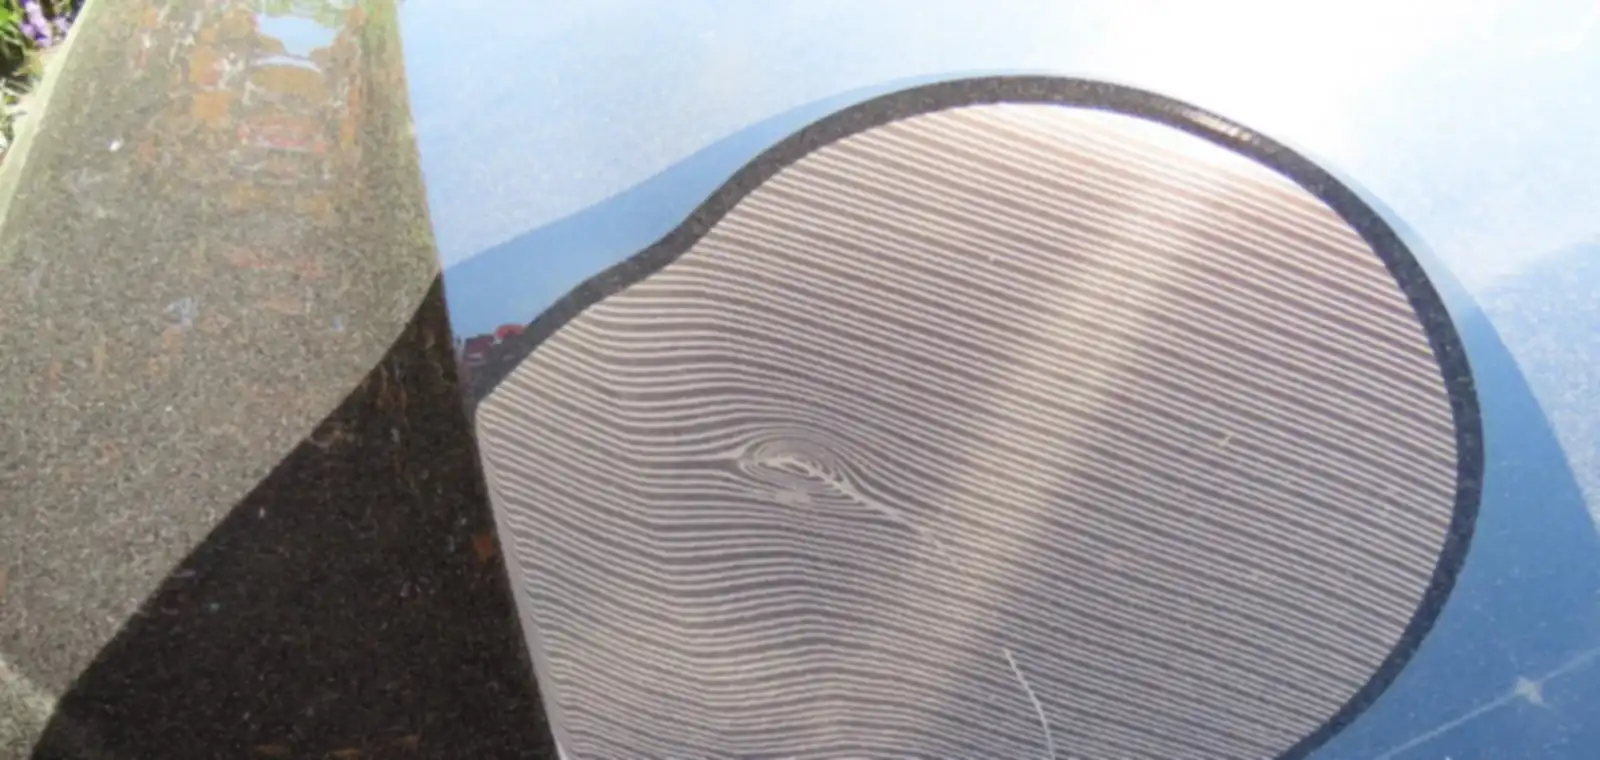
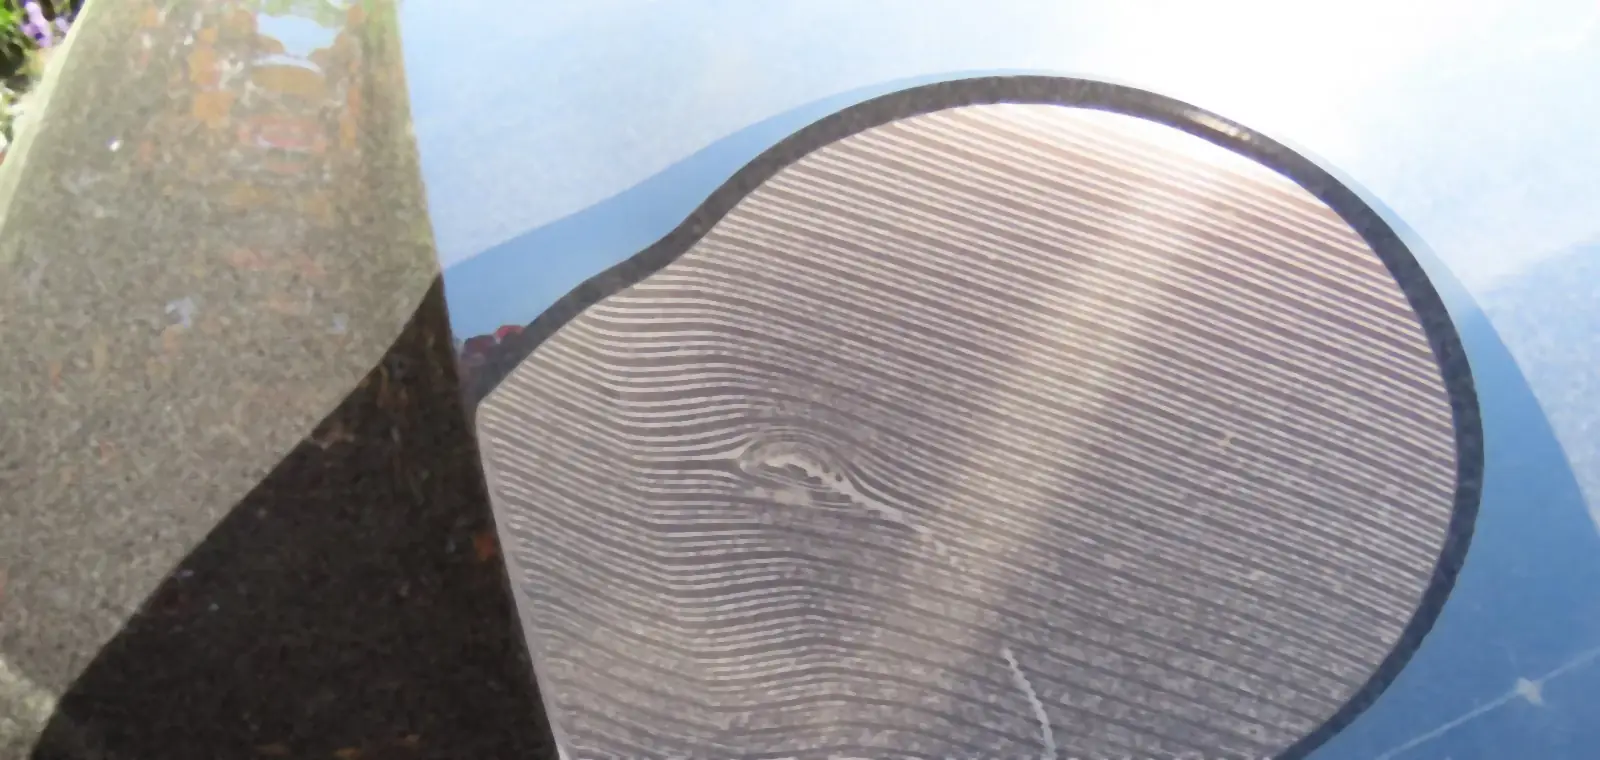
Hintergrundbild im Anriss entrauscht statt weichgezeichnet
Bilal: sieht low quality aus, das Bild an sich ist gut. Zwei Ursachen,
beide behoben.

ENTRAUSCHEN STATT WEICHZEICHNEN. Das Bild war mit einem Gauß von 1,4
weichgezeichnet, damit es klein wird – genau das machte die Streifen zu
Matsch. Teuer an dem Foto ist nicht die Struktur, sondern Lackflitter
und Sensorrauschen: hochfrequent, unkomprimierbar und unter dem blauen
Schleier ohnehin unsichtbar. Ein Medianfilter nimmt die weg und lässt
die Kanten stehen. Ohne Filter 226 KB scharf, mit Gauß 43 KB matschig,
mit Median 7+3 nun 51 KB scharf.

ZWEI AUSSCHNITTE STATT ZWEI GRÖSSEN. Der Anriss ist am Handy hoch und
schmal, das Bild ein breiter Streifen – mit cover wurde es dort 6,7-fach
hochskaliert. Das war der eigentliche Grund für den Eindruck, nicht die
Kompression. Jetzt gibt es einen eigenen, fast quadratischen Ausschnitt
(800x780, 41 KB), der oben im Anriss liegt und nach unten in den
Grundton ausläuft. Nachgemessen: 390@3x von 6,68x auf 1,46x, 430@3x von
6,49x auf 1,61x; am Schreibtisch unverändert 2,19x bei 1440@2x, jetzt
aber mit scharfer Vorlage.

Der Auslauf endet auf demselben --blue-dark, das darunter liegt, deshalb
ist keine Kante zu sehen. Seine Höhe (97,5 vw) ist genau die Höhe des
Ausschnitts bei voller Breite; wer den Ausschnitt ändert, muss sie
mitziehen.

Dazu die Doppelung im Anriss-Panel: "Ingenieur · Kfz-Sachverständiger"
stand direkt über "Kfz-Sachverständiger in Heppenheim". Die Zeile nennt
jetzt die Qualifikation statt der Rolle.
[…]

diff --git a/index.html b/index.html
@@ -217,7 +217,18 @@
         radial-gradient(95% 65% at 50% 118%, rgba(0,12,40,0.5), rgba(0,12,40,0) 68%),
         radial-gradient(70% 90% at -10% 50%, rgba(0,12,40,0.32), rgba(0,12,40,0) 60%),
         linear-gradient(135deg, rgba(0,42,115,0.84) 0%, rgba(0,61,165,0.78) 55%, rgba(0,74,199,0.80) 100%),
-        url("fotos/anriss-hintergrund-klein.webp") center / cover no-repeat,
+        /* Am Handy laeuft das Foto nach unten in den Grundton aus. Es liegt
+           oben und ist 97,5 vw hoch – das ist genau die Hoehe, die der
+           Ausschnitt (800x780) bei voller Breite einnimmt. Der Verlauf
+           endet auf demselben --blue-dark, das darunter liegt, deshalb
+           sieht man keine Kante. */
+        linear-gradient(to bottom, rgba(0,42,115,0) 46%, var(--blue-dark) 100%)
+          top center / 100% 97.5vw no-repeat,
+        /* Eigener, fast quadratischer Ausschnitt fuers Handy. Der breite
+           Streifen wurde hier mit "cover" 6,7-fach hochskaliert – das war
+           der Grund, warum das Bild am Handy billig aussah. So sind es
+           1,5-fach. */
+        url("fotos/anriss-hintergrund-handy.webp") top center / 100% auto no-repeat,
         var(--blue-dark);
       /* Genau eine Bildschirmhoehe, abzueglich der 68 px Navigationsleiste,
          die #hero als margin-top traegt: Anriss und Sequenz enden bzw.
@@ -244,13 +255,22 @@
     @media (min-width: 701px) {
       #hero {
         padding-bottom: 96px;
+        /* Ab hier ist der Anriss breiter als hoch, das Foto fuellt ihn
+           wieder ganz. Der Auslauf-Verlauf faellt weg (none), bleibt aber
+           als Ebene stehen: Groessen und Positionen werden Ebene fuer
+           Ebene zugeordnet, eine fehlende Ebene wuerde alle folgenden
+           verschieben. */
         background-image:
           radial-gradient(75% 60% at 64% 32%, rgba(255,255,255,0.13), rgba(255,255,255,0) 62%),
           radial-gradient(58% 52% at 8% 98%, rgba(255,186,140,0.16), rgba(255,186,140,0) 68%),
           radial-gradient(95% 65% at 50% 118%, rgba(0,12,40,0.5), rgba(0,12,40,0) 68%),
           radial-gradient(70% 90% at -10% 50%, rgba(0,12,40,0.32), rgba(0,12,40,0) 60%),
           linear-gradient(135deg, rgba(0,42,115,0.84) 0%, rgba(0,61,165,0.78) 55%, rgba(0,74,199,0.80) 100%),
+          none,
           url("fotos/anriss-hintergrund.webp");
+        background-size: auto, auto, auto, auto, auto, auto, cover;
+        background-position: 0% 0%, 0% 0%, 0% 0%, 0% 0%, 0% 0%, 0% 0%, center;
+        background-repeat: no-repeat;
       }
       .hero-weiter {
         display: flex; align-items: center; gap: 9px;
@@ -1465,7 +1485,7 @@
[1 lines of base64/hex data omitted]
       <div class="hero-panel-wer">
         <strong>Nurettin Sogukcesme</strong>
-        <span>Ingenieur · Kfz-Sachverständiger</span>
+        <span>B. Eng. Maschinenbau · Qualitätsingenieur</span>
         <div class="hero-eyebrow">Kfz-Sachverständiger in Heppenheim</div>
       </div>
     </div>

diff --git a/referenzen.html b/referenzen.html
@@ -217,7 +217,18 @@
         radial-gradient(95% 65% at 50% 118%, rgba(0,12,40,0.5), rgba(0,12,40,0) 68%),
         radial-gradient(70% 90% at -10% 50%, rgba(0,12,40,0.32), rgba(0,12,40,0) 60%),
         linear-gradient(135deg, rgba(0,42,115,0.84) 0%, rgba(0,61,165,0.78) 55%, rgba(0,74,199,0.80) 100%),
-        url("fotos/anriss-hintergrund-klein.webp") center / cover no-repeat,
+        /* Am Handy laeuft das Foto nach unten in den Grundton aus. Es liegt
+           oben und ist 97,5 vw hoch – das ist genau die Hoehe, die der
+           Ausschnitt (800x780) bei voller Breite einnimmt. Der Verlauf
+           endet auf demselben --blue-dark, das darunter liegt, deshalb
+           sieht man keine Kante. */
+        linear-gradient(to bottom, rgba(0,42,115,0) 46%, var(--blue-dark) 100%)
+          top center / 100% 97.5vw no-repeat,
+        /* Eigener, fast quadratischer Ausschnitt fuers Handy. Der breite
+           Streifen wurde hier mit "cover" 6,7-fach hochskaliert – das war
+           der Grund, warum das Bild am Handy billig aussah. So sind es
+           1,5-fach. */
+        url("fotos/anriss-hintergrund-handy.webp") top center / 100% auto no-repeat,
         var(--blue-dark);
       /* Genau eine Bildschirmhoehe, abzueglich der 68 px Navigationsleiste,
          die #hero als margin-top traegt: Anriss und Sequenz enden bzw.
@@ -244,13 +255,22 @@
     @media (min-width: 701px) {
       #hero {
         padding-bottom: 96px;
+        /* Ab hier ist der Anriss breiter als hoch, das Foto fuellt ihn
+           wieder ganz. Der Auslauf-Verlauf faellt weg (none), bleibt aber
+           als Ebene stehen: Groessen und Positionen werden Ebene fuer
+           Ebene zugeordnet, eine fehlende Ebene wuerde alle folgenden
+           verschieben. */
         background-image:
           radial-gradient(75% 60% at 64% 32%, rgba(255,255,255,0.13), rgba(255,255,255,0) 62%),
           radial-gradient(58% 52% at 8% 98%, rgba(255,186,140,0.16), rgba(255,186,140,0) 68%),
           radial-gradient(95% 65% at 50% 118%, rgba(0,12,40,0.5), rgba(0,12,40,0) 68%),
           radial-gradient(70% 90% at -10% 50%, rgba(0,12,40,0.32), rgba(0,12,40,0) 60%),
           linear-gradient(135deg, rgba(0,42,115,0.84) 0%, rgba(0,61,165,0.78) 55%, rgba(0,74,199,0.80) 100%),
+          none,
           url("fotos/anriss-hintergrund.webp");
+        background-size: auto, auto, auto, auto, auto, auto, cover;
+        background-position: 0% 0%, 0% 0%, 0% 0%, 0% 0%, 0% 0%, 0% 0%, center;
+        background-repeat: no-repeat;
       }
       .hero-weiter {
         display: flex; align-items: center; gap: 9px;

diff --git a/fotos/anriss_hintergrund.py b/fotos/anriss_hintergrund.py
@@ -7,34 +7,48 @@ Fahrzeugdetails". Genommen ist die Reflexionspruefung auf dunklem Lack
 (05): das Streifenmuster liest sich als technische Struktur und nicht als
 Schadenfoto, und es ist dunkel genug, dass der Text darueber traegt.
 
-Beschnitten wird auf die obere Haelfte. Darunter liegen der eingebrannte
-Zeitstempel, das Herstelleremblem und eine im Lack gespiegelte Person –
-alles drei hat auf einem Hintergrundbild nichts verloren.
+Beschnitten wird so, dass drei Dinge draussen bleiben: der eingebrannte
+Zeitstempel (ab x 1113, y 1000), das Herstelleremblem (ab x 1547, y 867)
+und eine im Lack gespiegelte Person (x 560..1227, y 840..1160).
 
-Zwei Groessen, damit das Handy nicht die grosse Datei zieht.
+ENTRAUSCHEN STATT WEICHZEICHNEN. Die erste Fassung hat das Bild mit einem
+Gauss von 1,4 weichgezeichnet, um es klein zu bekommen – und genau das sah
+dann billig aus: die Streifen wurden zu Matsch. Teuer an dem Foto ist
+nicht die Struktur, sondern der Lackflitter und das Sensorrauschen; beide
+sind hochfrequent, unkomprimierbar und unter dem blauen Schleier ohnehin
+unsichtbar. Ein Medianfilter nimmt genau die weg und laesst die Kanten
+stehen. Ohne jede Filterung waeren es 226 KB, mit Gauss 43 KB und matschig,
+mit Median 51 KB und scharf.
+
+ZWEI AUSSCHNITTE, NICHT ZWEI GROESSEN. Der Anriss ist am Handy hoch und
+schmal, das Bild ein breiter Streifen: mit "cover" wurde das kleine Bild
+dort 6,7-fach hochskaliert. Deshalb gibt es fuer das Handy einen eigenen,
+fast quadratischen Ausschnitt, der oben im Anriss liegt und nach unten in
+den Verlauf auslaeuft – der wird nur noch 1,5-fach hochskaliert.
 """
-import io
 import os
 
 from PIL import Image, ImageFilter
 
 HIER = os.path.dirname(os.path.abspath(__file__))
 QUELLE = os.path.join(HIER, '05-bmw-lack-detail.webp')
-UNTEN = 760          # darunter: Zeitstempel, Emblem, Spiegelung
+
+# (Datei, Ausschnitt, Median-Kette, WebP-Guete)
+# Der Handy-Ausschnitt bekommt den kleineren Median: er wird weniger
+# hochskaliert und darf deshalb mehr Feinzeichnung behalten.
+BAUPLAN = (
+    ('anriss-hintergrund.webp',       (0, 0, 1600, 760), (7, 3), 72),
+    ('anriss-hintergrund-handy.webp', (300, 0, 1100, 780), (5, 3), 72),
+)
 
 
 def bauen():
     im = Image.open(QUELLE).convert('RGB')
-    aus = im.crop((0, 0, im.width, UNTEN))
     ergebnis = []
-    for name, breite, guete, weich in (('anriss-hintergrund.webp', 1600, 52, 1.4),
-                                       ('anriss-hintergrund-klein.webp', 900, 50, 0.9)):
-        h = round(aus.height * breite / aus.width)
-        b = aus.resize((breite, h), Image.LANCZOS)
-        # Das Streifenmuster ist hochfrequent und treibt die Datei hoch.
-        # Unter dem blauen Schleier braucht es die Schaerfe nicht – ein
-        # leichter Weichzeichner drittelt die Groesse.
-        b = b.filter(ImageFilter.GaussianBlur(weich))
+    for name, kasten, median, guete in BAUPLAN:
+        b = im.crop(kasten)
+        for gr in median:
+            b = b.filter(ImageFilter.MedianFilter(gr))
         pfad = os.path.join(HIER, name)
         b.save(pfad, 'WEBP', quality=guete, method=6)
         ergebnis.append((name, b.size, os.path.getsize(pfad)))

diff --git a/README.md b/README.md
@@ -452,13 +452,46 @@ sie stand nicht in der Mail. Die Einwilligung zur Datenverarbeitung steht
 weiter darunter — die ist keine Inhaltsfrage, sondern Pflicht.
 
 **Das Hintergrundbild** im Anriss ist die Reflexionsprüfung auf dunklem
-Lack (`fotos/anriss_hintergrund.py`), beschnitten auf die obere Hälfte:
-darunter liegen der eingebrannte Zeitstempel, das Herstelleremblem und
-eine im Lack gespiegelte Person. Ein leichter Weichzeichner vor dem
-Speichern drittelt die Datei, weil das Streifenmuster hochfrequent ist —
-**43 KB** statt 210 für die große, **19 KB** für die kleine Fassung, die
-das Handy zieht. Darüber liegt derselbe Verlauf wie zuvor, nur nicht mehr
-deckend (0,84/0,78/0,80).
+Lack (`fotos/anriss_hintergrund.py`), beschnitten so, dass drei Dinge
+draußen bleiben: der eingebrannte Zeitstempel, das Herstelleremblem und
+eine im Lack gespiegelte Person. Darüber liegt derselbe Verlauf wie zuvor,
+nur nicht mehr deckend (0,84/0,78/0,80).
+
+**Entrauschen statt weichzeichnen.** Die erste Fassung hat das Bild mit
+einem Gauß von 1,4 weichgezeichnet, um es klein zu bekommen — und genau
+das sah dann billig aus: die Streifen wurden zu Matsch. Teuer an dem Foto
+ist nicht die Struktur, sondern der Lackflitter und das Sensorrauschen.
+Beide sind hochfrequent, unkomprimierbar und unter dem blauen Schleier
+ohnehin unsichtbar. Ein Medianfilter nimmt genau die weg und lässt die
+Kanten stehen:
+
+| Behandlung | Größe | Aussehen |
+|---|---|---|
+| ohne alles | 226 KB | scharf |
+| Gauß 1,4 (erste Fassung) | 43 KB | matschig |
+| Median 7 + 3 | **51 KB** | scharf |
+
+**Zwei Ausschnitte, nicht zwei Größen.** Der Anriss ist am Handy hoch und
+schmal, das Bild ein breiter Streifen — mit `cover` wurde die kleine
+Fassung dort **6,7-fach** hochskaliert. Das war der eigentliche Grund,
+warum es am Handy billig aussah, nicht die Kompression. Jetzt gibt es
+einen eigenen, fast quadratischen Ausschnitt (800 × 780, 41 KB), der oben
+im Anriss liegt und nach unten in den Grundton ausläuft. Nachgemessen:
+
+| | vorher | jetzt |
+|---|---|---|
+| 1920 × 1080 @1x | 1,33× | 1,33× |
+| 1440 × 900 @2x | 2,19× | 2,19× |
+| 430 × 932 @3x | 6,49× | **1,61×** |
+| 390 × 844 @3x | 6,68× | **1,46×** |
+
+Der Auslauf ist ein Verlauf über dem Foto, der auf demselben
+`--blue-dark` endet, das darunter liegt — deshalb sieht man keine Kante.
+Seine Höhe steht als `97,5 vw` da: das ist genau die Höhe, die der
+Ausschnitt bei voller Breite einnimmt. Wer den Ausschnitt ändert, muss
+diese Zahl mitziehen. Am Schreibtisch fällt die Ebene weg (`none`) —
+stehen bleibt sie trotzdem, denn Größen und Positionen werden Ebene für
+Ebene zugeordnet, eine fehlende Ebene würde alle folgenden verschieben.
 
 Zwei Textrollen brauchten dadurch mehr Grund: die Blase in der Tafel
 bekam einen eigenen dunklen Hintergrund, der WhatsApp-Knopf dunkles statt
